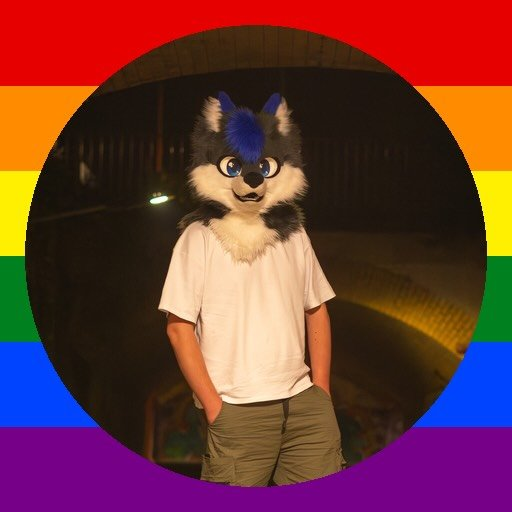
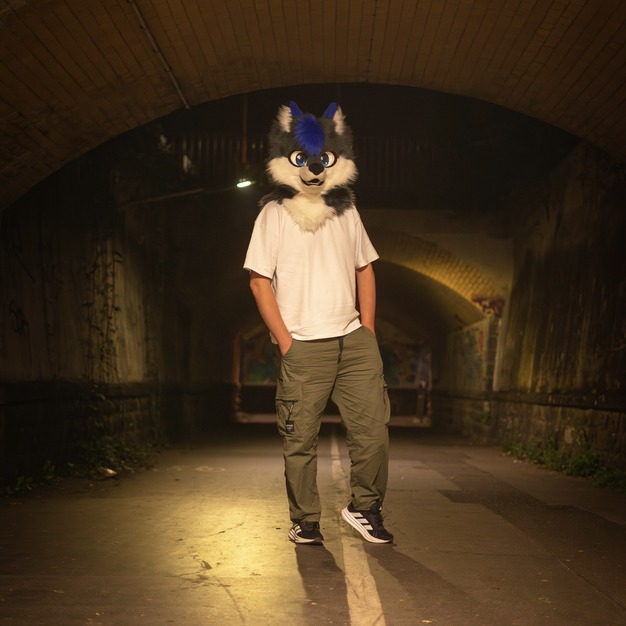
creators: update

diff --git a/www/pages/creators.php b/www/pages/creators.php
@@ -1,5 +1,5 @@
 <?php
-    $deadline = 'August 3rd, 2026';
+    $deadline = 'July 31th, 2026';
     $creators = [
         [
             'title' => 'Greykas',
@@ -449,6 +449,17 @@
                     'name' => 'Youtube',
                     'icon' => 'youtube',
                     'link' => 'https://www.youtube.com/@Merenek'
+                ]
+            ]
+        ],
+		[
+            'title' => 'Rakurim',
+            'image' => 'Rakurim.jpg',
+            'links' => [
+                [
+                    'name' => 'TikTok',
+                    'icon' => 'tiktok',
+                    'link' => 'https://www.tiktok.com/@rakurim'
                 ]
             ]
         ]
